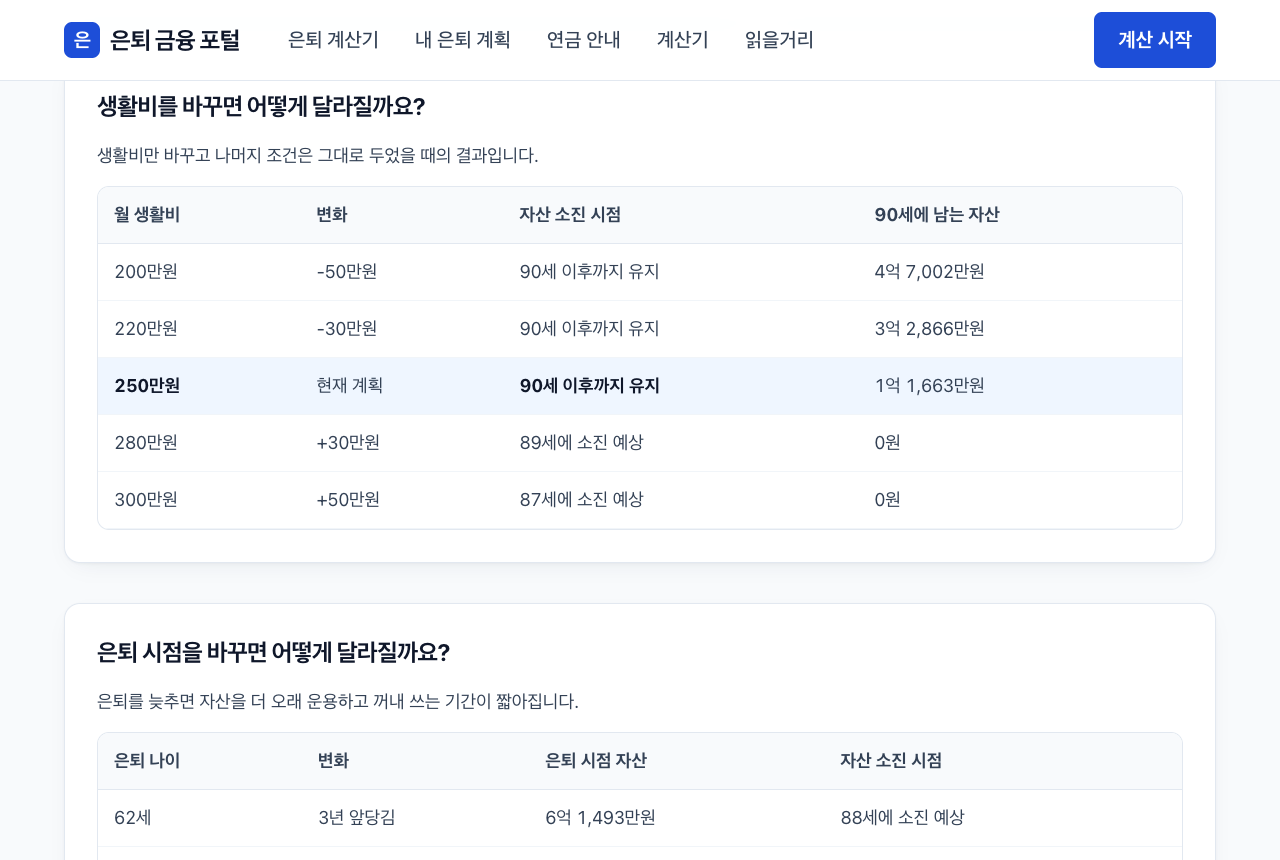
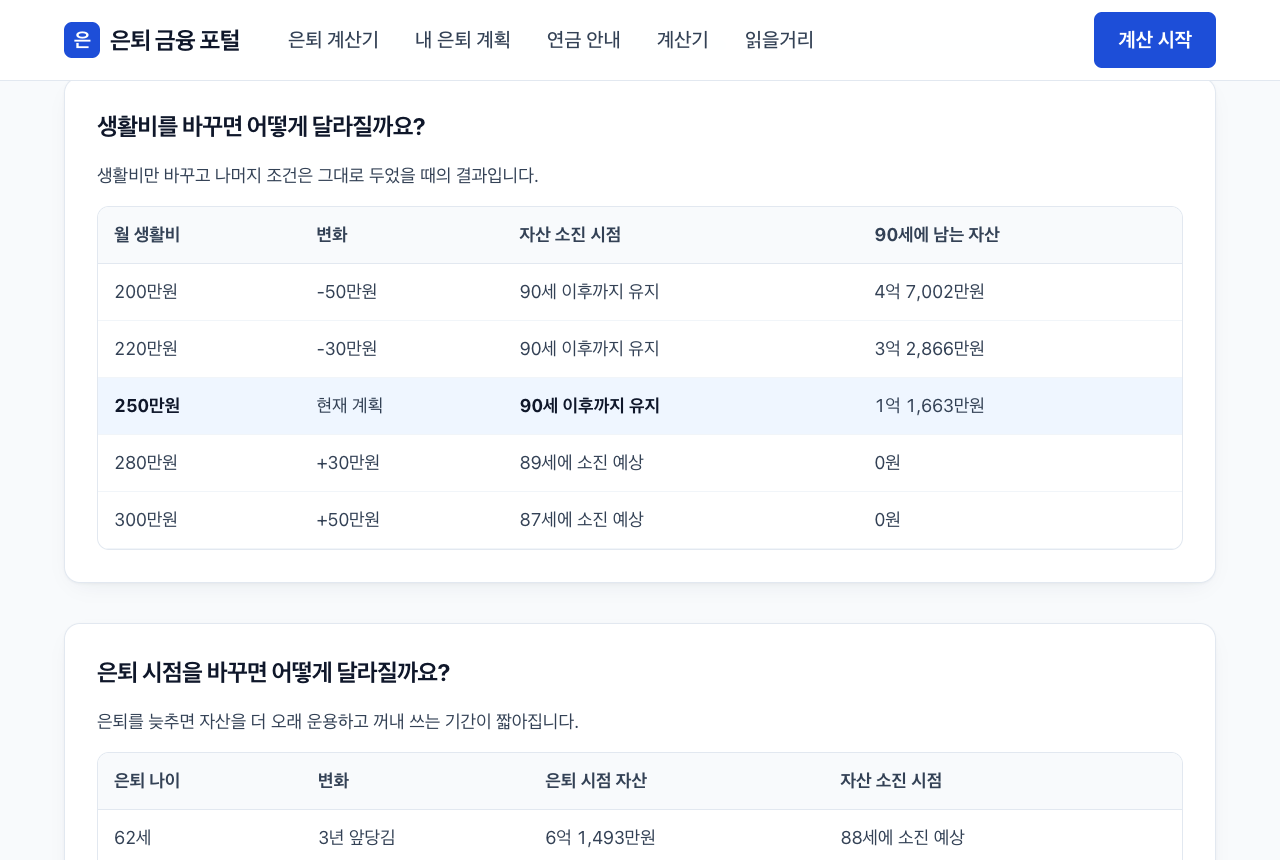
README 스크린샷을 다시 찍는 스크립트 추가 (npm run screenshots)
맥의 Google Chrome 을 headless 로 띄워 운영 사이트(또는 BASE)의 주요 화면 11장을 찍는다.
패키지를 추가하지 않는다. 화면을 찾지 못하면 멈추고, 전부 성공한 뒤에만
docs/screenshots 를 바꾸므로 중간 실패로 기존 이미지가 망가지지 않는다.

비교표 화면은 제목 위 여백을 다른 화면과 맞춰 다시 찍었다.

diff --git a/README.md b/README.md
@@ -197,11 +197,26 @@ src/
 │   └── tax/                # 세금·건강보험료 (법령 수치는 statutory.ts)
 ├── services/               # 저장 (localStorage)
 └── lib/                    # 금액·나이 표시 형식
+scripts/
+└── screenshots.mjs         # README 화면 스크린샷 찍기
 docs/
 ├── screenshots/            # 이 README 의 화면 이미지
 ├── statutory-research.md   # 법령 수치 확인 근거
 └── verification-report.md  # 검증 보고서
 ```
+
+### 화면 스크린샷 다시 찍기
+
+화면이 바뀌면 이 README 의 이미지를 다시 찍습니다. 맥에 Google Chrome 이 있어야 하고, 따로 설치할 패키지는 없습니다.
+
+```bash
+npm run screenshots                               # 운영 사이트를 찍어 docs/screenshots 에 저장
+BASE=http://localhost:3000 npm run screenshots    # 로컬 개발 서버를 찍기
+```
+
+- 스크립트는 `scripts/screenshots.mjs` 입니다. 계산 화면에는 위 "예시 값" 표의 값을 넣습니다. 예시 값을 바꾸면 이 README 의 설명도 함께 고쳐 주세요.
+- 입력란이나 버튼 이름이 바뀌어 화면을 찾지 못하면 오류를 내고 멈춥니다. 모든 화면을 다 찍은 뒤에만 이미지를 바꾸므로, 중간에 실패해도 기존 이미지는 그대로 남습니다.
+- Chrome 이 다른 위치에 있으면 `CHROME=/경로/Google\ Chrome npm run screenshots` 처럼 지정합니다.
 
 ### 배포
 
